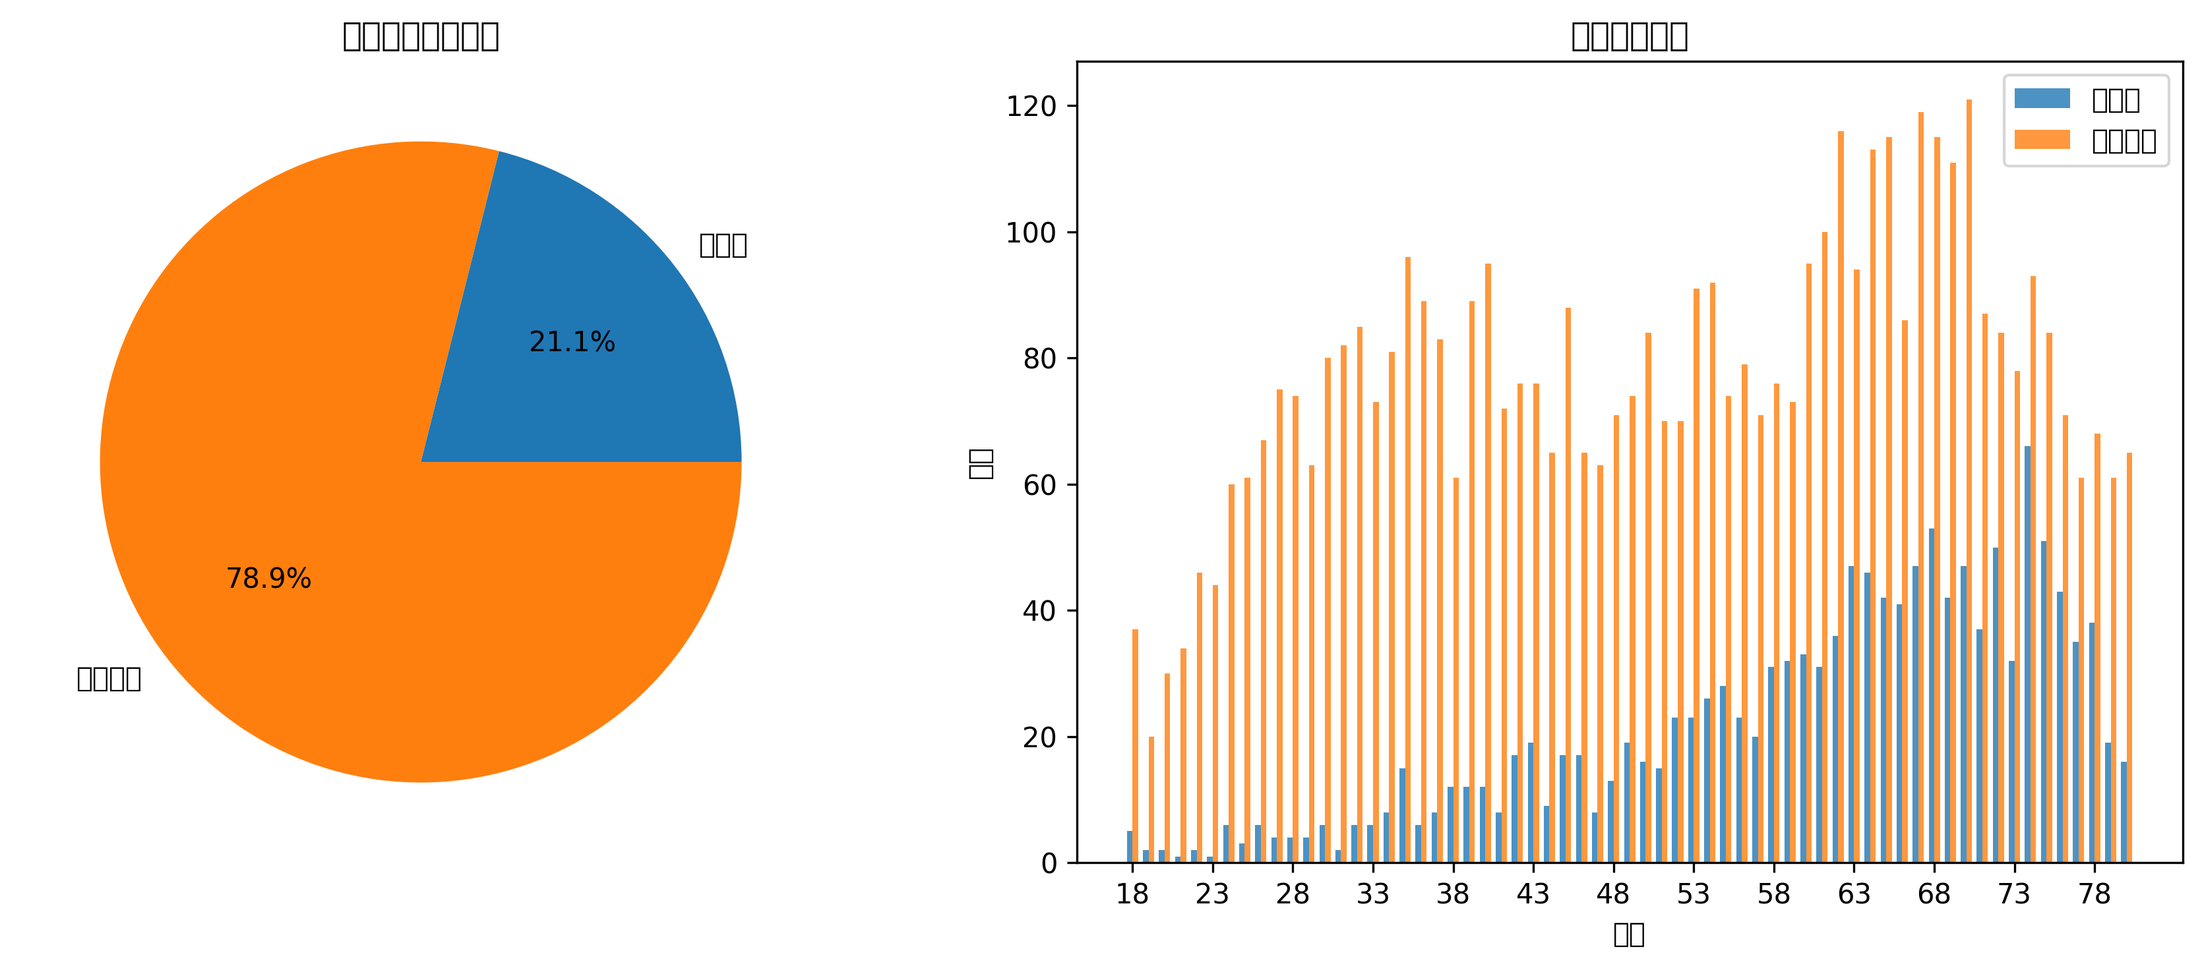
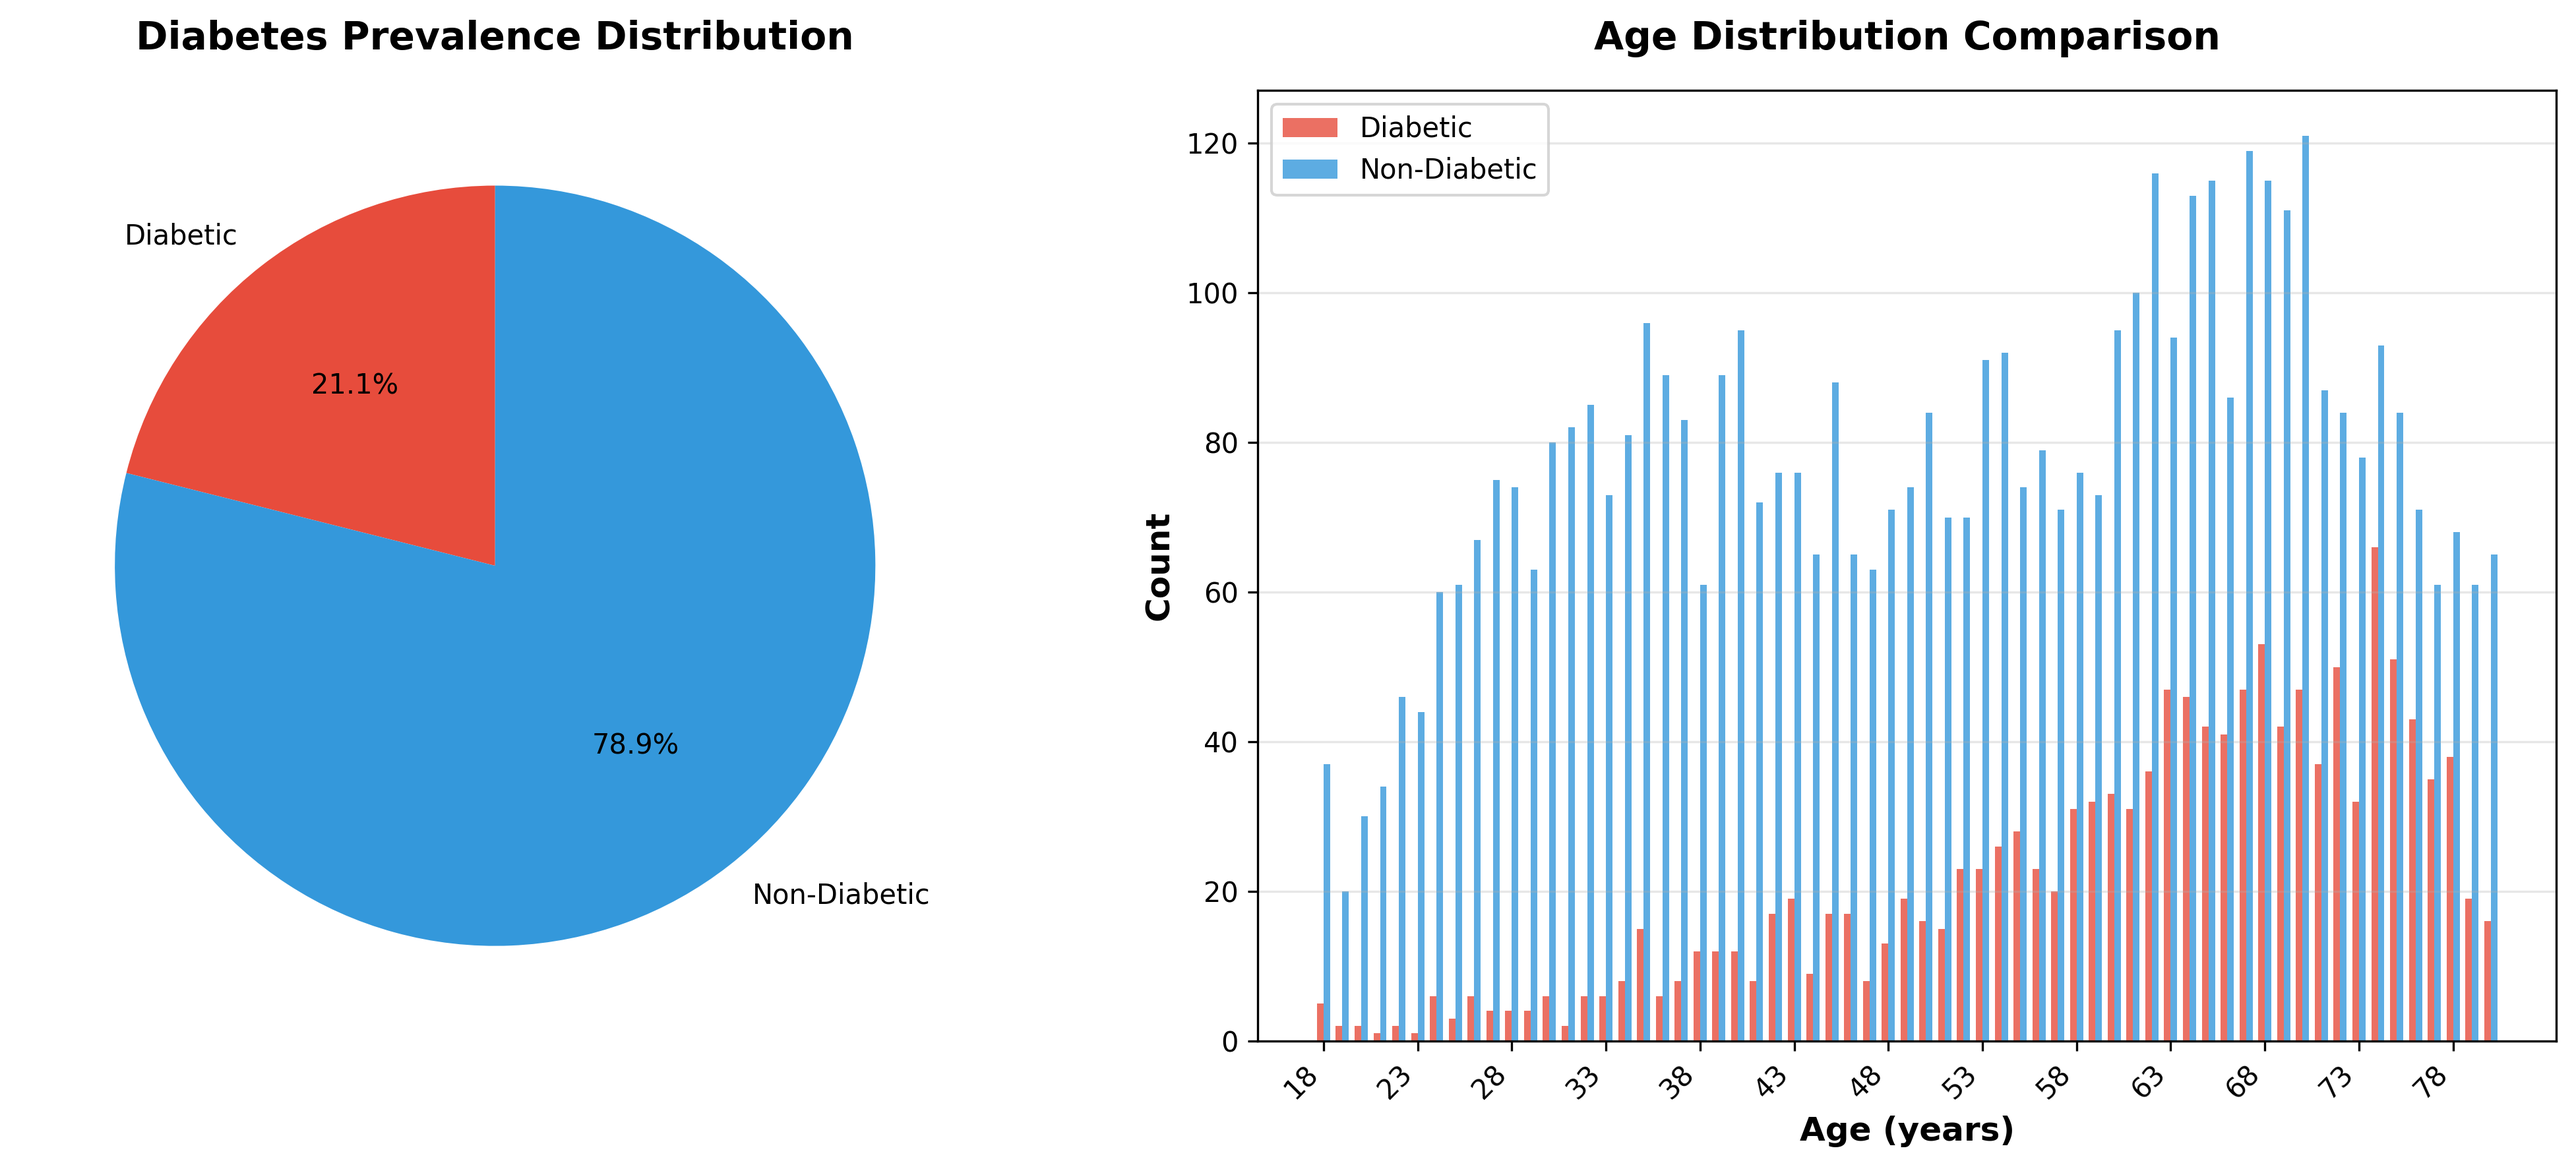
Fix diabetes_analysis.png encoding: Remove Chinese labels, update paths
- Replaced all Chinese labels with English (糖尿病 → Diabetic, 非糖尿病 → Non-Diabetic)
- Updated file paths to use analysis/results/ directory
- Added English font configuration (DejaVu Sans, Arial, Helvetica)
- Improved chart styling with colors and better formatting
- Regenerated figure with English labels only

diff --git a/scripts/utils/visualize_data.py b/scripts/utils/visualize_data.py
@@ -1,24 +1,54 @@
+#!/usr/bin/env python3
+"""
+Visualize Diabetes Analysis Data
+
+Creates visualizations for diabetes prevalence and age distribution.
+"""
+
 import json
 import matplotlib.pyplot as plt
 import pandas as pd
+import numpy as np
+from pathlib import Path
+import sys
 
-# 读取数据
-with open('diabetes_summary.json', 'r') as f:
-    summary = json.load(f)
+# Add parent directory to path
+sys.path.append(str(Path(__file__).parent.parent.parent))
 
-with open('diabetes_demographics_crosstabs.json', 'r') as f:
-    demo = json.load(f)
+# Set up matplotlib for English labels only
+plt.rcParams['font.sans-serif'] = ['DejaVu Sans', 'Arial', 'Helvetica']
+plt.rcParams['axes.unicode_minus'] = False
+plt.rcParams['figure.dpi'] = 300
 
-# 1. 糖尿病患病率饼图
-fig, (ax1, ax2) = plt.subplots(1, 2, figsize=(12, 5))
+# Get repository root
+repo_root = Path(__file__).parent.parent.parent
 
-# 饼图
+# Read data
+summary_path = repo_root / 'analysis' / 'results' / 'diabetes_summary.json'
+demo_path = repo_root / 'analysis' / 'results' / 'diabetes_demographics_crosstabs.json'
+
+try:
+    with open(summary_path, 'r', encoding='utf-8') as f:
+        summary = json.load(f)
+    
+    with open(demo_path, 'r', encoding='utf-8') as f:
+        demo = json.load(f)
+except FileNotFoundError as e:
+    print(f"❌ Data file not found: {e}")
+    print(f"Looking for: {summary_path} or {demo_path}")
+    sys.exit(1)
+
+# 1. Diabetes prevalence pie chart
+fig, (ax1, ax2) = plt.subplots(1, 2, figsize=(14, 6))
+
+# Pie chart
 diabetic = summary['summary']['num_diabetic']
 non_diabetic = summary['summary']['num_non_diabetic']
-ax1.pie([diabetic, non_diabetic], labels=['糖尿病', '非糖尿病'], autopct='%1.1f%%')
-ax1.set_title('糖尿病患病率分布')
+ax1.pie([diabetic, non_diabetic], labels=['Diabetic', 'Non-Diabetic'], 
+        autopct='%1.1f%%', colors=['#E74C3C', '#3498DB'], startangle=90)
+ax1.set_title('Diabetes Prevalence Distribution', fontsize=14, fontweight='bold', pad=15)
 
-# 2. 年龄分布柱状图 (选择正常年龄范围)
+# 2. Age distribution bar chart (select normal age range)
 age_data = demo['crosstabs']['age']['count']
 normal_ages = {k: v for k, v in age_data.items() if k.isdigit() and 18 <= int(k) <= 80}
 ages = sorted([int(k) for k in normal_ages.keys()])
@@ -27,15 +57,23 @@ non_diabetic_counts = [normal_ages[str(age)]['Non-Diabetic'] for age in ages]
 
 x = range(len(ages))
 width = 0.35
-ax2.bar([i - width/2 for i in x], diabetic_counts, width, label='糖尿病', alpha=0.8)
-ax2.bar([i + width/2 for i in x], non_diabetic_counts, width, label='非糖尿病', alpha=0.8)
-ax2.set_xlabel('年龄')
-ax2.set_ylabel('人数')
-ax2.set_title('年龄分布对比')
-ax2.set_xticks(x[::5])  # 每5年显示一个标签
-ax2.set_xticklabels(ages[::5])
-ax2.legend()
+ax2.bar([i - width/2 for i in x], diabetic_counts, width, 
+        label='Diabetic', alpha=0.8, color='#E74C3C')
+ax2.bar([i + width/2 for i in x], non_diabetic_counts, width, 
+        label='Non-Diabetic', alpha=0.8, color='#3498DB')
+ax2.set_xlabel('Age (years)', fontsize=12, fontweight='bold')
+ax2.set_ylabel('Count', fontsize=12, fontweight='bold')
+ax2.set_title('Age Distribution Comparison', fontsize=14, fontweight='bold', pad=15)
+ax2.set_xticks(x[::5])  # Show label every 5 years
+ax2.set_xticklabels(ages[::5], rotation=45, ha='right')
+ax2.legend(fontsize=10)
+ax2.grid(True, alpha=0.3, axis='y')
 
 plt.tight_layout()
-plt.savefig('diabetes_analysis.png', dpi=300, bbox_inches='tight')
-print("图表已保存为 diabetes_analysis.png")
+
+# Save figure
+output_path = repo_root / 'figures' / 'diabetes_analysis.png'
+plt.savefig(output_path, dpi=300, bbox_inches='tight')
+print(f"✅ Diabetes analysis plot saved: {output_path}")
+
+plt.close()
